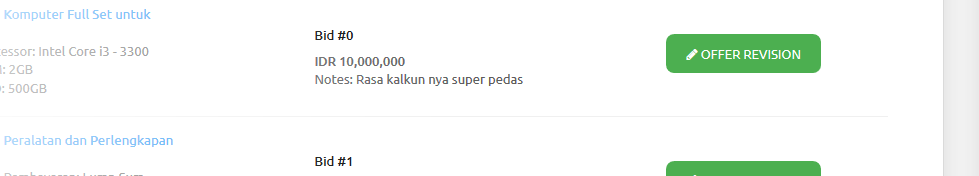
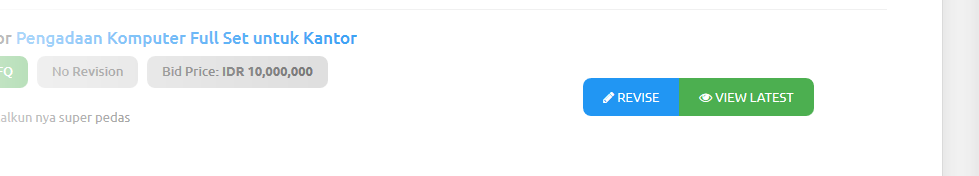
update supplier docs

diff --git a/source/Supplier/public_rfq.rst b/source/Supplier/public_rfq.rst
@@ -44,11 +44,12 @@ Public RFQ can be viewed before login, but to join or create the quotation login
      :width: 700px
      :alt: role select
    
-   You can view the details of the Public RFQ by clicking the public RFQ title
+   - You can view the details of the Public RFQ by clicking the public RFQ title or click the 'View Detail' button
+   
    
   4. Join RFQ
   
-   You can join the RFQ after you login/register, so you'll be automatically redirected to the register page after clicking the 'Join' button.
+   You can join the RFQ after you login/register, so you'll be automatically redirected to the register page after clicking the 'Join' button
   
 - Public RFQ Page:
   

diff --git a/source/Supplier/public_rfq_status.rst b/source/Supplier/public_rfq_status.rst
@@ -25,7 +25,7 @@ Send Revision
   
 You still can offer a quotation revision if the RFQ still open.
 
-- Click 'Offer Revision' button from your submitted quotation list
+- Click 'Revise' button from your submitted quotation list
 
  .. image:: ../img_src/offer-ss.png
     :width: 700px
